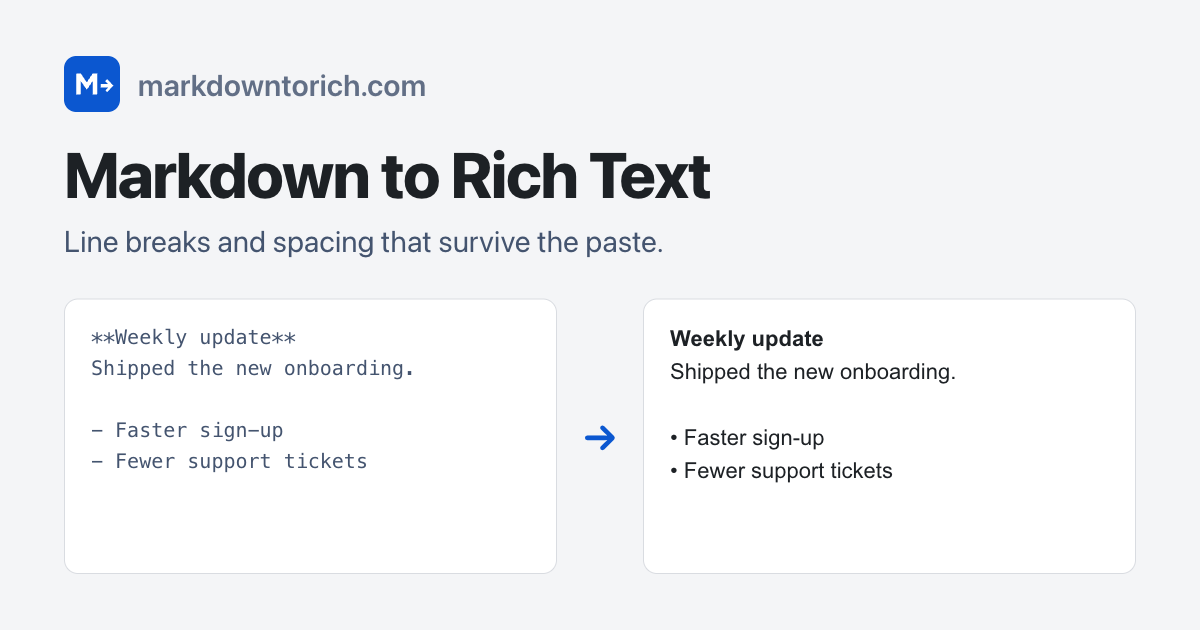
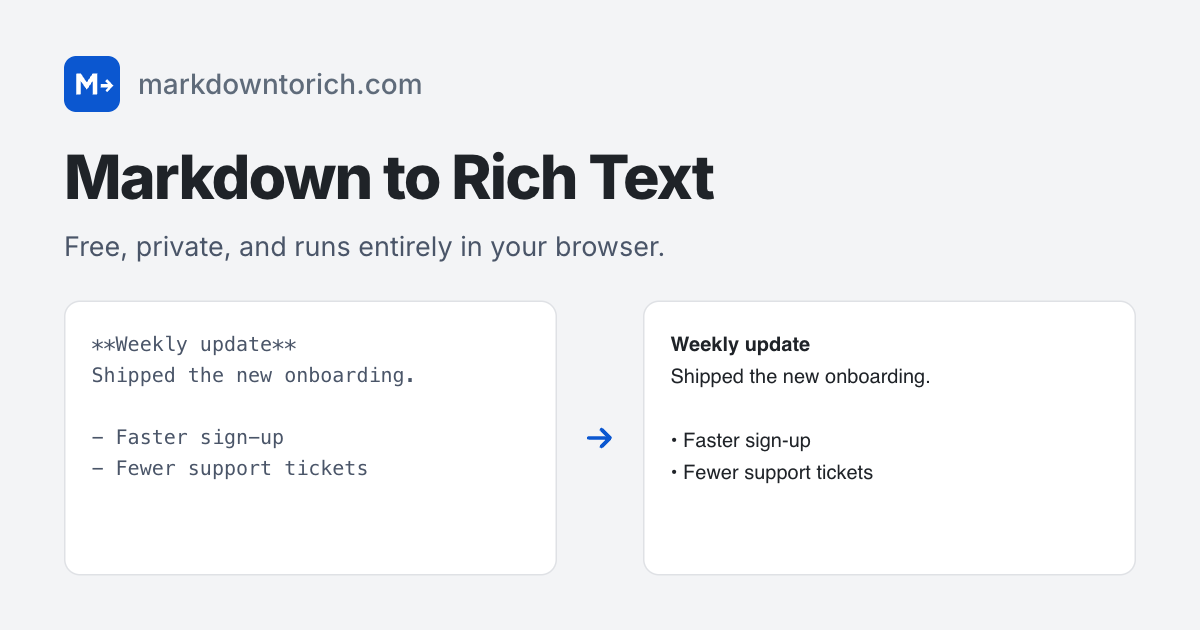
Cleanup

diff --git a/index.html b/index.html
@@ -3,8 +3,8 @@
   <head>
     <meta charset="UTF-8" />
     <meta name="viewport" content="width=device-width, initial-scale=1.0" />
-    <title>Markdown to Rich Text — Free Converter for Slack, Docs &amp; Email</title>
-    <meta name="description" content="Convert Markdown to rich text that pastes cleanly into Slack, Google Docs, Word and Gmail with line breaks and spacing intact. Free, private, and runs entirely in your browser." />
+    <title>Markdown to Rich Text — Free &amp; Private Converter</title>
+    <meta name="description" content="Free, private Markdown to rich text converter for Slack, Google Docs, Word and Gmail. It runs entirely in your browser, so nothing you type is uploaded." />
     <meta name="author" content="TJ Miller" />
     <meta name="theme-color" content="#0b57d0" />
     <link rel="canonical" href="https://markdowntorich.com/" />
@@ -14,16 +14,16 @@
     <meta property="og:type" content="website" />
     <meta property="og:site_name" content="Markdown to Rich" />
     <meta property="og:url" content="https://markdowntorich.com/" />
-    <meta property="og:title" content="Markdown to Rich Text — keeps your line breaks" />
-    <meta property="og:description" content="Paste Markdown, copy rich text. Line breaks and spacing survive the paste into Slack, Google Docs, Word and Gmail. Runs entirely in your browser." />
+    <meta property="og:title" content="Markdown to Rich Text — Free &amp; Private Converter" />
+    <meta property="og:description" content="Free and private. Paste Markdown, copy rich text for Slack, Google Docs, Word and Gmail. Your text never leaves your browser." />
     <meta property="og:image" content="https://markdowntorich.com/og.png" />
     <meta property="og:image:width" content="1200" />
     <meta property="og:image:height" content="630" />
     <meta property="og:image:alt" content="Markdown on the left converted to formatted rich text on the right" />
 
     <meta name="twitter:card" content="summary_large_image" />
-    <meta name="twitter:title" content="Markdown to Rich Text — keeps your line breaks" />
-    <meta name="twitter:description" content="Paste Markdown, copy rich text. Line breaks and spacing survive the paste into Slack, Google Docs, Word and Gmail." />
+    <meta name="twitter:title" content="Markdown to Rich Text — Free &amp; Private Converter" />
+    <meta name="twitter:description" content="Free and private. Paste Markdown, copy rich text for Slack, Google Docs, Word and Gmail. Your text never leaves your browser." />
     <meta name="twitter:image" content="https://markdowntorich.com/og.png" />
 
     <!-- Umami page-view analytics. data-domains keeps dev, preview and pages.dev traffic out. -->
@@ -35,7 +35,7 @@
         "@type": "WebApplication",
         "name": "Markdown to Rich Text",
         "url": "https://markdowntorich.com/",
-        "description": "Convert Markdown to rich text that pastes cleanly into Slack, Google Docs, Word and Gmail with line breaks and spacing intact.",
+        "description": "Free, private Markdown to rich text converter for Slack, Google Docs, Word and Gmail. Runs entirely in your browser.",
         "applicationCategory": "UtilitiesApplication",
         "operatingSystem": "Any",
         "browserRequirements": "Requires a modern web browser",

diff --git a/src/sample.ts b/src/sample.ts
@@ -2,11 +2,11 @@ export const SAMPLE = `# Project update
 
 Hi team,
 Quick summary of where things stand.
-Each of these lines was typed with a single Enter.
+Here is what changed this week.
 
 ## What shipped
 
-- **Line breaks** now survive the paste
+- **New onboarding** is live
 - Lists keep their shape
   even when an item wraps onto a second line
 - Code keeps its indentation
@@ -16,7 +16,7 @@ Each of these lines was typed with a single Enter.
 3. Paste anywhere
 
 
-Two blank lines above this paragraph are kept as space.
+Next up is the mobile release.
 
 > Quotes work too.
 > Across multiple lines.
@@ -29,7 +29,7 @@ function greet(name) {
 
 | Feature | Status |
 | --- | --- |
-| Line breaks | ✅ |
+| Onboarding | ✅ |
 | Tables | ✅ |
 
 - [x] Ship it

diff --git a/README.md b/README.md
@@ -1,16 +1,14 @@
 # Markdown to Rich Text
 
-Convert Markdown to rich text that keeps its line breaks when you paste it into Slack, Google Docs, Word or Gmail.
+A free, private Markdown to rich text converter for Slack, Google Docs, Word and Gmail.
+
+Everything runs in your browser and nothing you type is sent anywhere. A Content Security Policy only lets the page reach its [Umami](https://umami.is) analytics server, which counts page views.
 
 **Live at [markdowntorich.com](https://markdowntorich.com)**
 
-- A single Enter is a new line, and extra blank lines are kept. Both are toggles.
-- Blocks are separated by a real empty line, so spacing survives apps that ignore CSS margins.
 - Code blocks keep their lines and indentation.
 - Tables, task lists and strikethrough (GitHub Flavored Markdown).
 - Open or drop a `.md` file.
-
-Everything runs in your browser and nothing you type is sent anywhere. A Content Security Policy only lets the page reach its [Umami](https://umami.is) analytics server, which counts page views.
 
 ## Development
 
